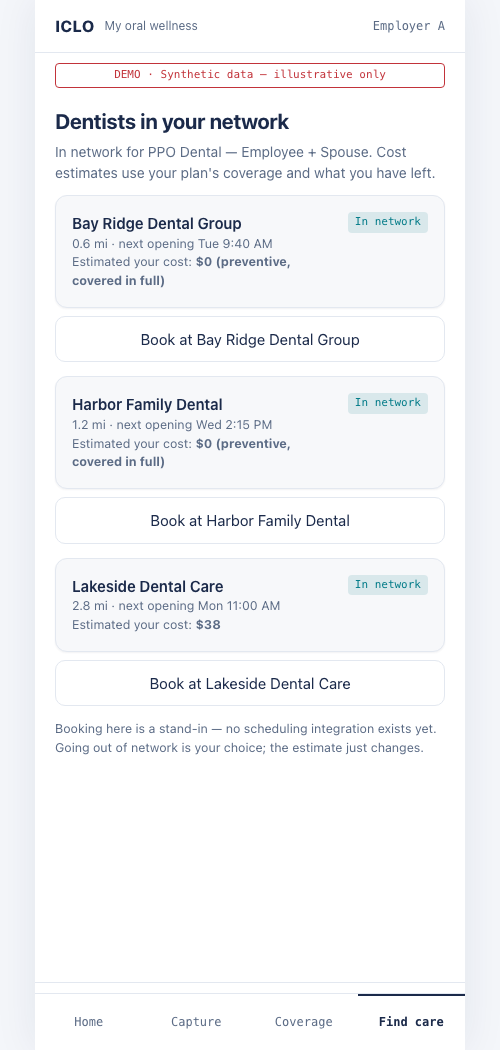
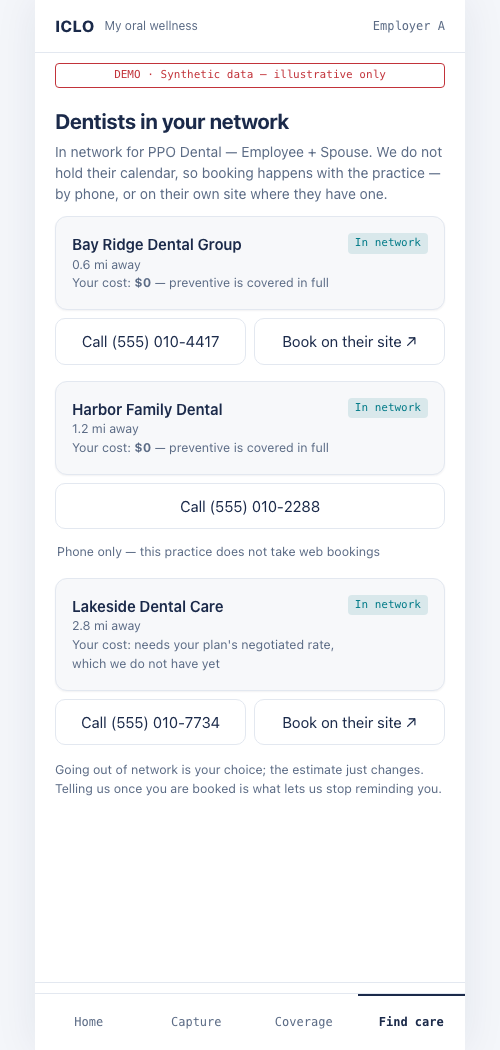
fix(app): hand booking off to the practice instead of pretending to own it
The Book button submitted to nobody. Nothing is connected to a practice
calendar, so "Requested — the clinic will confirm" described a request
that was never sent.

It hands off now: call the practice, or open their own booking page where
they have one. Harbor Family has neither, and the screen says so —
coverage is partial in reality and a demo that hides that sets up the
wrong expectation.

Two claims came out with it. Next available slot is gone, because
real-time availability comes from a scheduling layer synced to the
practice's software and we are not connected to one; showing an opening
we cannot see is the same class of claim this product exists to avoid.
The non-preventive cost estimate is gone too — that needs the plan's
negotiated rate, which is a payer-practice contract we do not hold.
Preventive stays at $0, which the benefit table alone supports.

After a handoff the app cannot see what happened on the other side of a
phone call, so it asks. "I booked it" is a self-report, labelled as one:
the claim confirms it weeks later, and the wording says that rather than
treating the tap as done.

That self-report is also the measurement. Handoffs against bookings
against claims is what would say whether booking friction is worth paying
a scheduling vendor to remove. Right now nobody knows, because the funnel
collapses every reason for not completing into one number.

The model has no room for either yet: care_action.close_reason knows
[…]

diff --git a/app.html b/app.html
@@ -78,6 +78,9 @@
   .privacy ul{margin:6px 0 0;padding-left:18px}
   .privacy li{font-size:13px;color:var(--ink2);margin-bottom:4px}
 
+  .acts{display:flex;flex-wrap:wrap;gap:8px;margin:-4px 0 16px}
+  .acts button{width:auto;flex:1 1 46%}
+  .acts .followup{flex:1 1 100%}
   .clinic{display:flex;gap:12px;align-items:flex-start}
   .clinic .meta{flex:1}
   .clinic .name{font-weight:600;font-size:15px}
@@ -137,10 +140,16 @@ const ME = {
     {k:"Basic services",                pct:80,  note:"after $50 deductible"},
     {k:"Major services",                pct:50,  note:"12-month waiting period"},
   ],
+  // No `next opening` here on purpose. Real-time slots come from a scheduling
+  // layer synced to the practice's software, and we are not connected to one —
+  // showing an opening we cannot see would be the same class of claim this
+  // product exists to avoid. Distance and network status come from a directory;
+  // `online` is whether that practice takes web bookings at all, which is the
+  // coverage reality: some do, some are a phone call.
   clinics: [
-    {name:"Bay Ridge Dental Group", mi:0.6, next:"Tue 9:40 AM",  est:0,  inNet:true},
-    {name:"Harbor Family Dental",   mi:1.2, next:"Wed 2:15 PM",  est:0,  inNet:true},
-    {name:"Lakeside Dental Care",   mi:2.8, next:"Mon 11:00 AM", est:38, inNet:true},
+    {name:"Bay Ridge Dental Group", mi:0.6, phone:"(555) 010-4417", online:true,  est:0},
+    {name:"Harbor Family Dental",   mi:1.2, phone:"(555) 010-2288", online:false, est:0},
+    {name:"Lakeside Dental Care",   mi:2.8, phone:"(555) 010-7734", online:true,  est:null},
   ],
 };
 const BANDS = {
@@ -252,21 +261,34 @@ const VIEWS = {
   },
 
   care(){
+    // Hand off, then ask. We cannot see whether a booking happened on the other
+    // side of a phone call, so the only honest signal is the member telling us.
+    // That self-report is also the measurement: handoffs vs bookings vs claims
+    // is what says whether booking friction is worth paying to remove.
+    const cost = c => c.est === 0
+      ? "<b>$0</b> — preventive is covered in full"
+      : "needs your plan's negotiated rate, which we do not have yet";
     const rows = ME.clinics.map((c,i)=>`
       <div class="card clinic">
         <div class="meta">
           <div class="name">${esc(c.name)}</div>
-          <div class="muted">${c.mi} mi · next opening ${esc(c.next)}</div>
-          <div class="muted">Estimated your cost: <b>${c.est===0?"$0 (preventive, covered in full)":usd(c.est)}</b></div>
+          <div class="muted">${c.mi} mi away</div>
+          <div class="muted">Your cost: ${cost(c)}</div>
         </div>
         <span class="pill in">In network</span>
       </div>
-      <button data-book="${i}" style="margin:-4px 0 14px">Book at ${esc(c.name)}</button>`).join("");
+      <div class="acts" data-clinic="${i}">
+        <button data-call="${i}">Call ${esc(c.phone)}</button>
+        ${c.online
+          ? `<button data-site="${i}">Book on their site ↗</button>`
+          : `<span class="muted" style="display:block;padding:6px 2px 0">Phone only — this practice does not take web bookings</span>`}
+      </div>`).join("");
     return `<h1>Dentists in your network</h1>
-      <p>In network for ${esc(ME.plan)}. Cost estimates use your plan's coverage and what you have left.</p>
+      <p>In network for ${esc(ME.plan)}. We do not hold their calendar, so booking happens with the
+      practice — by phone, or on their own site where they have one.</p>
       ${rows}
-      <p class="muted">Booking here is a stand-in — no scheduling integration exists yet. Going out of
-      network is your choice; the estimate just changes.</p>`;
+      <p class="muted">Going out of network is your choice; the estimate just changes. Telling us once
+      you are booked is what lets us stop reminding you.</p>`;
   },
 };
 
@@ -285,8 +307,27 @@ document.addEventListener("click", e=>{
   if (go){ S.tab = go.dataset.go; S.step = 0; return render(); }
   const st = e.target.closest("[data-step]");
   if (st){ S.step = +st.dataset.step; return render(); }
-  const bk = e.target.closest("[data-book]");
-  if (bk){ bk.textContent = "Requested — the clinic will confirm"; bk.disabled = true; }
+  const act = e.target.closest("[data-call],[data-site]");
+  if (act){
+    // A real build dials tel: or opens the practice's page. Either way the app
+    // loses sight of the member at this point — hence the follow-up.
+    const box = act.closest(".acts");
+    if (!box.querySelector(".followup")){
+      box.insertAdjacentHTML("beforeend",
+        `<div class="followup">
+           <div class="muted" style="padding:8px 2px 6px">Once you have a time, tell us — it stops the reminders.</div>
+           <button data-booked>I booked it</button>
+         </div>`);
+    }
+    return;
+  }
+  const done = e.target.closest("[data-booked]");
+  if (done){
+    // SELF_REPORTED in the model. Weaker than a claim and labelled that way:
+    // the claim is what confirms it, weeks later.
+    done.outerHTML = `<div class="muted" style="padding:6px 2px">
+      Noted — we will confirm it against your claims when they arrive.</div>`;
+  }
 });
 render();
 </script>
